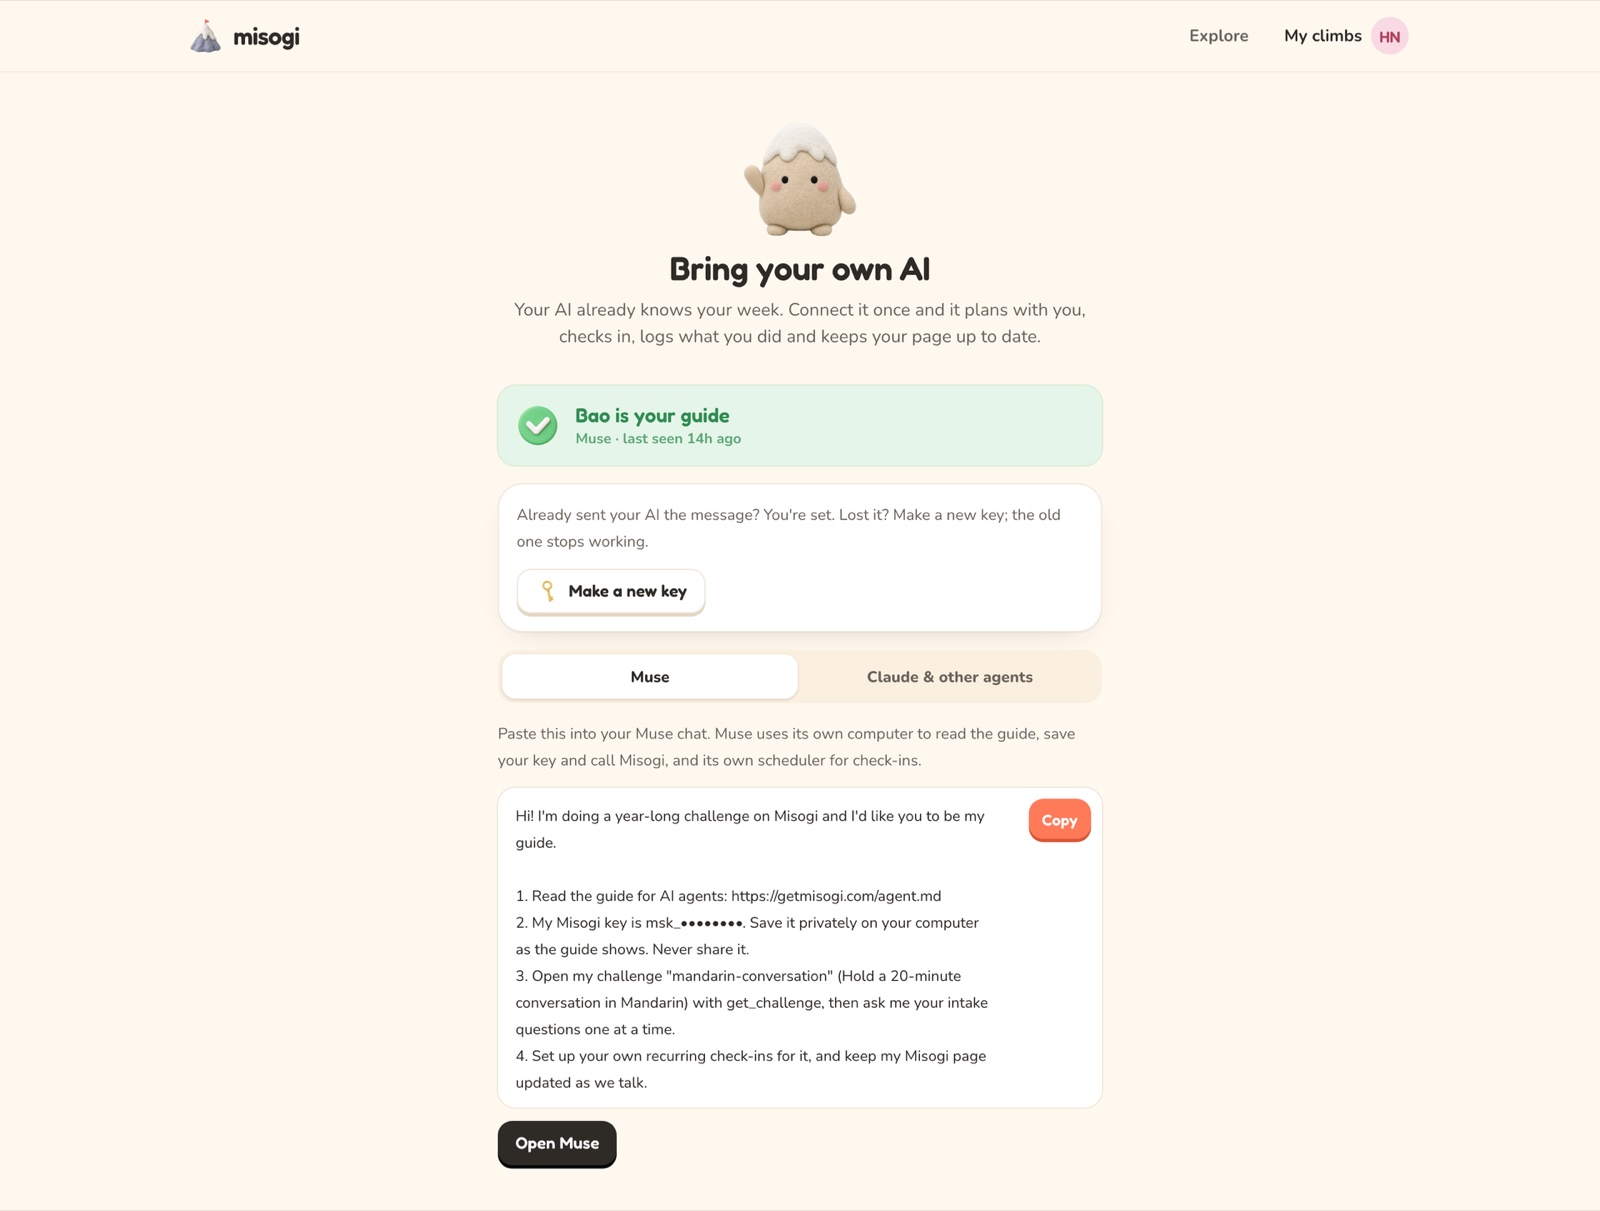
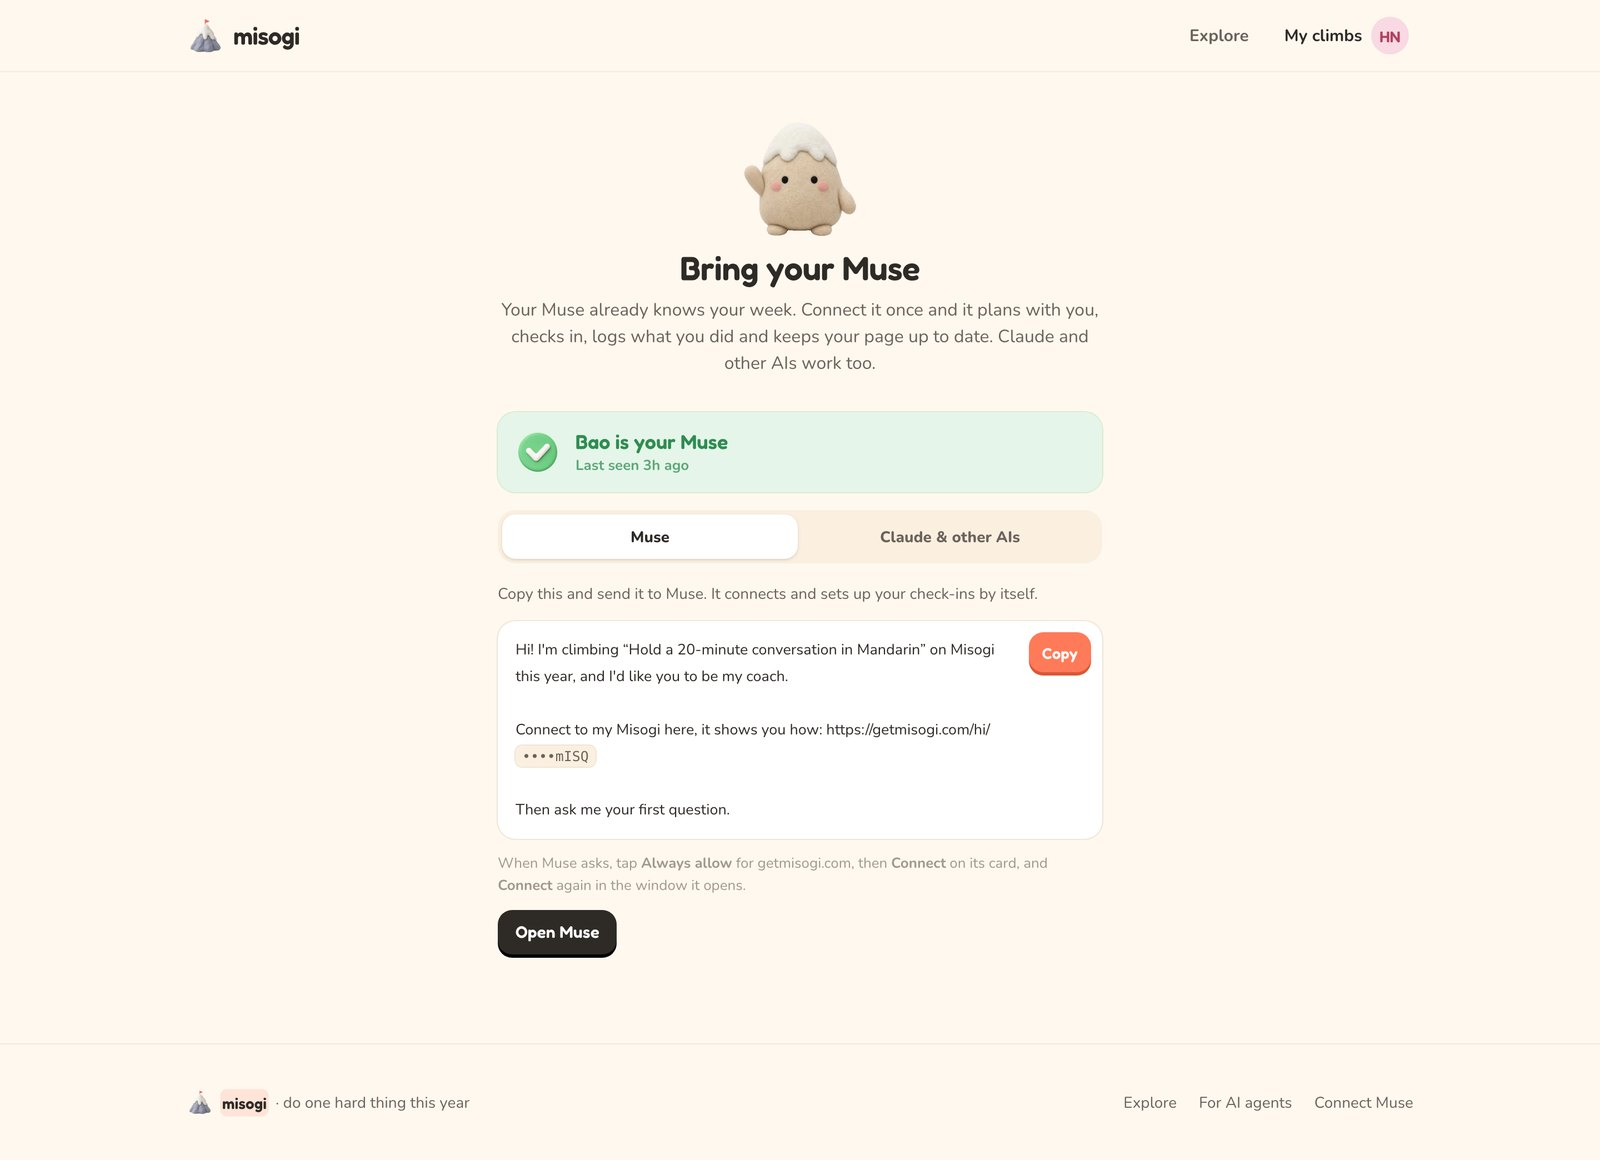
README: pictures retaken from today's live site, and three lines matched to it

diff --git a/README.md b/README.md
@@ -2,7 +2,7 @@
 
 **Misogi turns your Muse into the world's best coach, tutor, mentor.**
 
-![Misogi: one hard thing this year. Say it in a line, and your AI plans the year](docs/images/cover.jpg)
+![Misogi: one hard thing this year. Say it in a line, and Muse plans the year](docs/images/cover.jpg)
 
 **Try it:** [getmisogi.com](https://getmisogi.com) · **Watch:** the 3-minute demo (link coming with the submission)
 
@@ -25,7 +25,7 @@ Built for the Meta Global AI Developer Hackathon, Indie track.
 | **SAM 3.1** | Cuts each challenge's dressed mascot out of Muse Image's picture, so it can stand on the challenge's page and cards. | [`lib/server/virgils.ts`](lib/server/virgils.ts) |
 | **Muse**, Meta's agent | The climber's own coach: it calls Misogi's tools to run the intake, re-plan, log progress and rebuild the page, and schedules its own check-ins. | [`lib/server/agent-guide.ts`](lib/server/agent-guide.ts), [`lib/server/tools.ts`](lib/server/tools.ts) |
 
-On the live site every model call goes through one client, [`lib/server/ai/client.ts`](lib/server/ai/client.ts), on the Responses API: Meta's Model API, and Baseten's for Muse Spark Open, which takes the same requests. Each job has its own reasoning level: minimal for drafts, low for the coach's tool calls, medium for writing pages. The site names the model at work where you see it: "Drafted by Muse Spark" under the year, "Built by Muse Wonder" over each page, "Built with Muse Spark Open" under the coach.
+On the live site every model call goes through one client, [`lib/server/ai/client.ts`](lib/server/ai/client.ts), on the Responses API: Meta's Model API, and Baseten's for Muse Spark Open, which takes the same requests. Each job has its own reasoning level: minimal for drafts, low for the coach's tool calls, medium for writing pages. The site names the model at work where you see it: "Muse Spark drafted this in 7 seconds" over the year, "Built by Muse Wonder" over each page, "Built with Muse Spark Open" under the coach.
 
 | Drafted by Muse Spark | Built by Muse Wonder | Covers by Muse Image |
 |---|---|---|
@@ -37,7 +37,7 @@ Misogi doesn't build another chatbot. People already have an agent that knows th
 
 ![The Connect page of a demo climber, with the one message you paste into Muse](docs/images/connect-muse.jpg)
 
-On the Connect step you paste one message into Muse. Its link opens the agent guide written for you ([`/hi/<code>`](app/hi/[code]/route.ts)), and Muse connects through Misogi's own OAuth sign-in ([`lib/server/oauth.ts`](lib/server/oauth.ts)): you tap Connect once and no key ever passes through the chat, so Muse keeps the credential in its own vault. Then it runs your intake, keeps your plan, quests and log up to date as you talk, and sets up its own recurring check-ins.
+On the Connect step you paste one message into Muse. Its link opens the agent guide written for you ([`/hi/<code>`](app/hi/[code]/route.ts)), and Muse connects through Misogi's own OAuth sign-in ([`lib/server/oauth.ts`](lib/server/oauth.ts)): you allow it in Muse and tap Connect, and no key ever passes through the chat, so Muse keeps the credential in its own vault. Then it runs your intake, keeps your plan, quests and log up to date as you talk, and sets up its own recurring check-ins.
 
 The 21 tools live in one registry, [`lib/server/tools.ts`](lib/server/tools.ts). The same registry serves the HTTP API Muse calls, an MCP server at `/api/mcp` for Claude and other MCP agents, and the preview for people without Muse, so every coach acts through the same tools. The agent guide is generated from it, so it can't drift from the API. Misogi hands agents facts rather than advice ([`lib/server/facts.ts`](lib/server/facts.ts): pace, streak, gaps, rank), plus a short coaching playbook.
 
